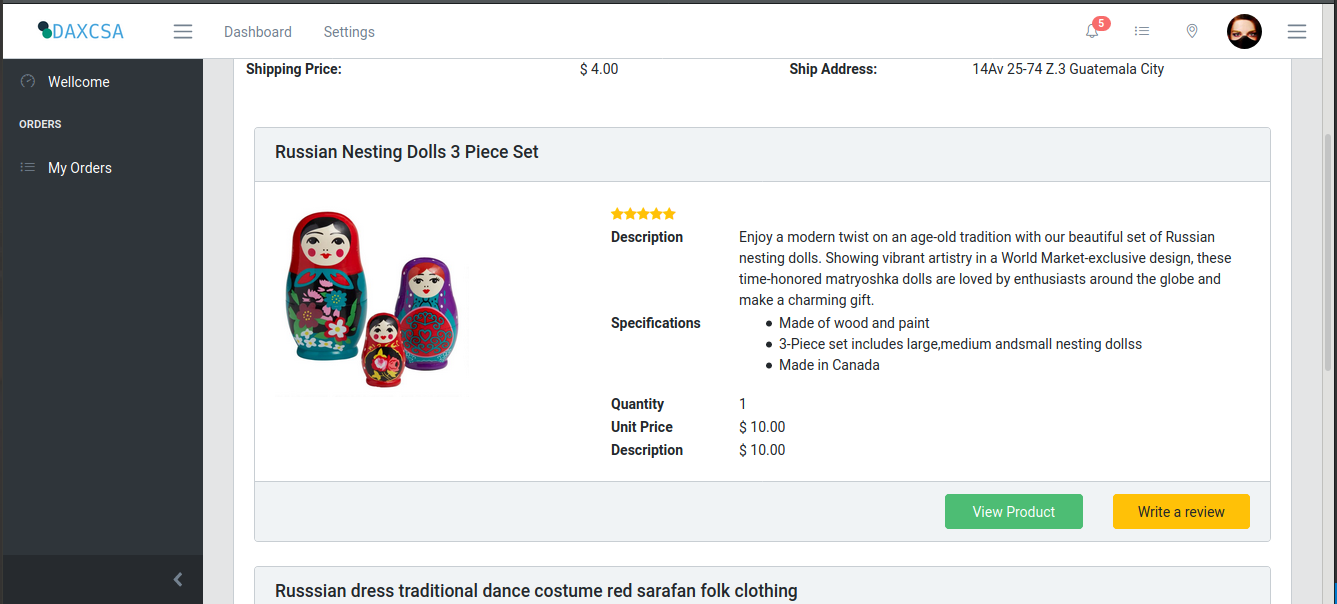
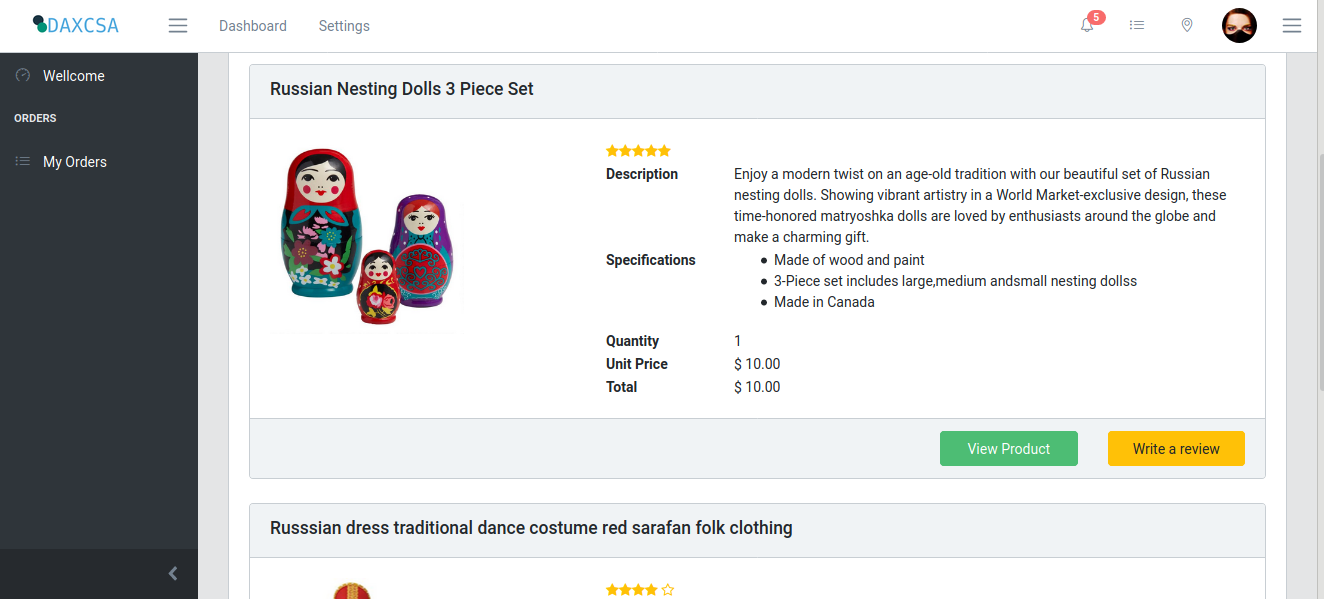
se corrigio texto de detalle Orden y se cambio imagen

diff --git a/Front/src/app/views/order-detail/order-detail.component.html b/Front/src/app/views/order-detail/order-detail.component.html
@@ -86,7 +86,7 @@
                                             <td>$ {{p.unitPrice}}</td>
                                         </tr>
                                         <tr>
-                                            <th>Description</th>
+                                            <th>Total</th>
                                             <td>$ {{p.totalPrice}}</td>
                                         </tr>
                                     </table>
